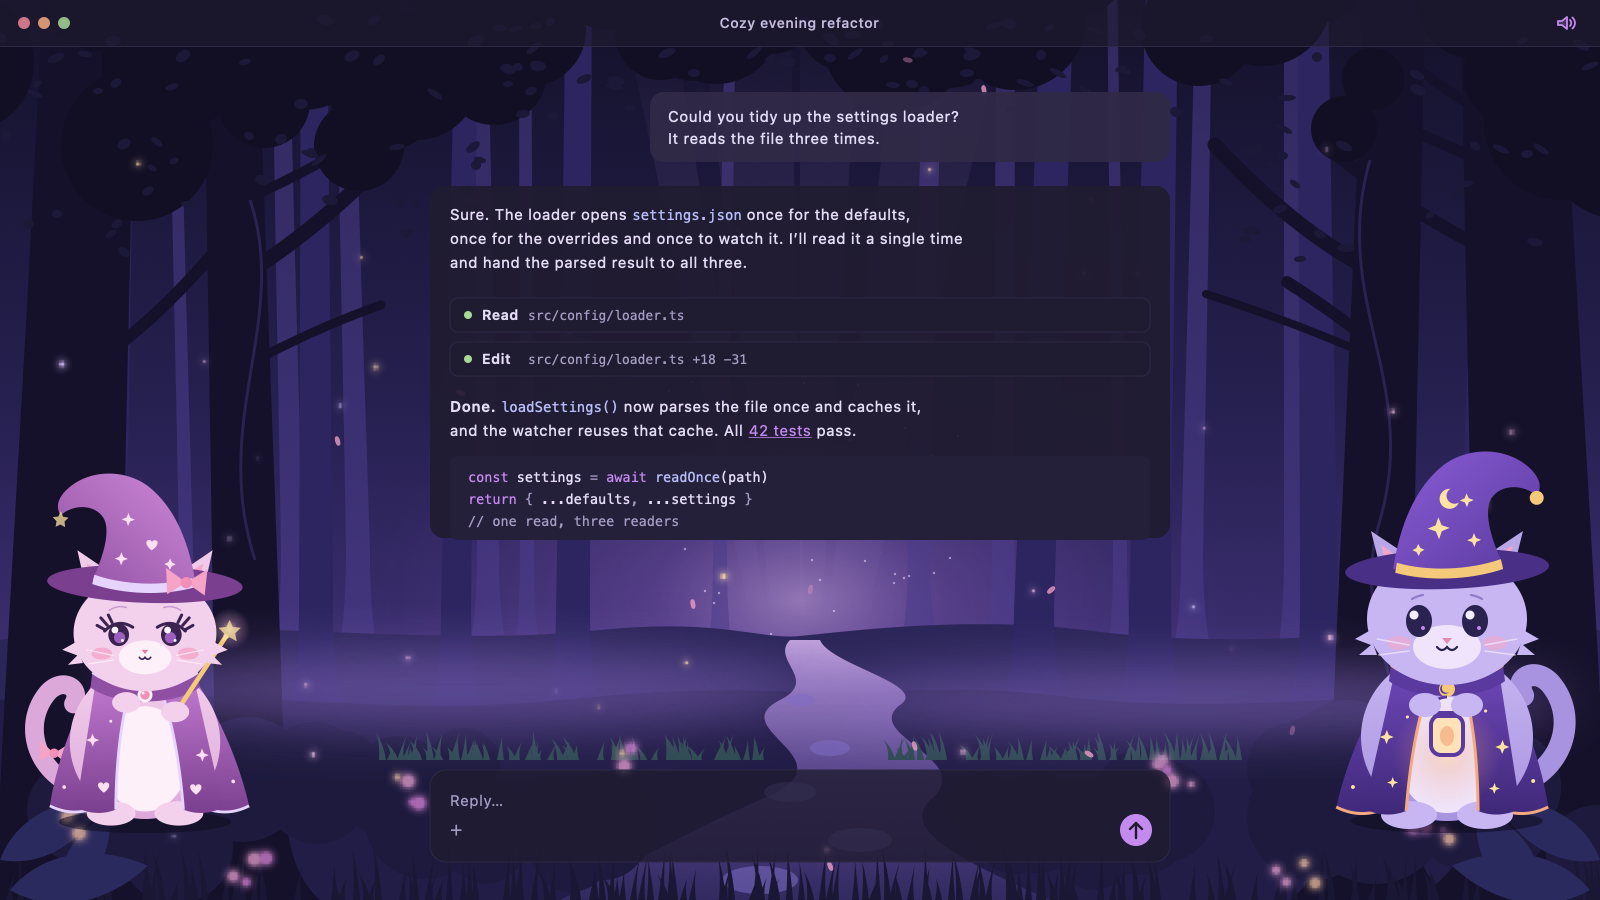
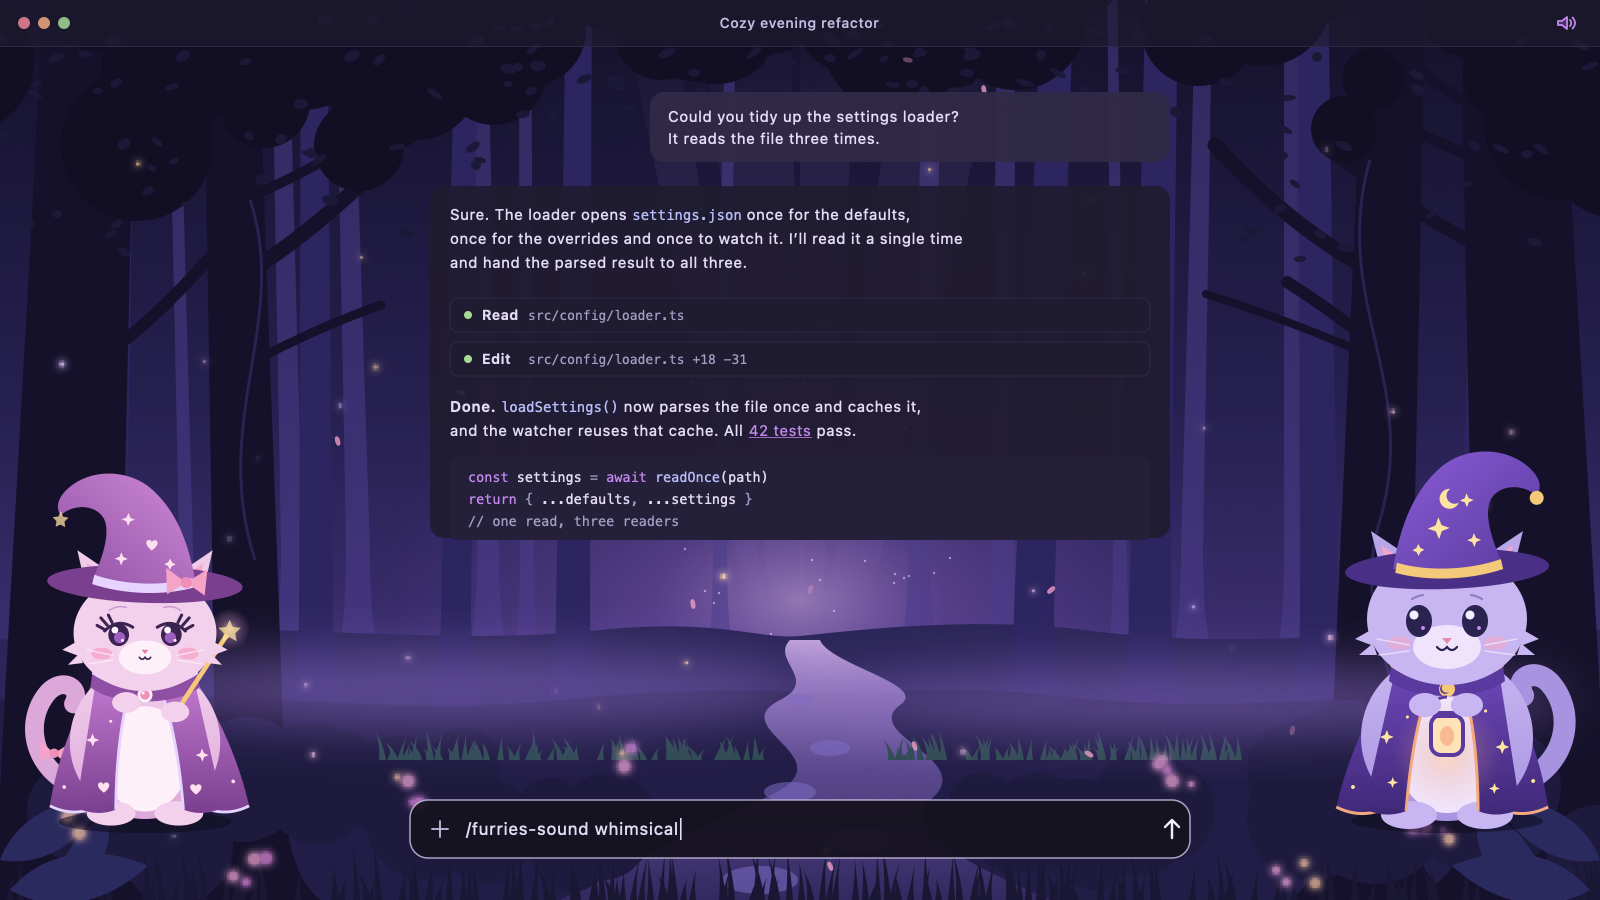
Draw the mock-up's prompt box as the app does, typing /furries-sound whimsical

Changed region(s): [[0.25, 0.84, 0.625, 0.9644], [0.6875, 0.8711, 0.75, 0.9644]]

diff --git a/art/mockup.py b/art/mockup.py
@@ -115,13 +115,17 @@ def window() -> str:
         spans = ''.join(f'<tspan fill="{c}">{escape(t)}</tspan>' for t, c in row)
         parts.append(f'<text x="{col_x + 38}" y="{cy + 26 + i * 22}" font-family="{MONO}" font-size="13.5" xml:space="preserve">{spans}</text>')
 
-    # Prompt box
-    py = 770
-    parts.append(f'<rect x="{col_x}" y="{py}" width="{col_w}" height="92" rx="16" fill="{SURFACE0}" fill-opacity="0.78" stroke="{SURFACE3}"/>')
-    parts.append(text(col_x + 20, py + 36, 'Reply…', 15, MUTED))
-    parts.append(f'<circle cx="{col_x + col_w - 34}" cy="{py + 60}" r="16" fill="{ORCHID}"/>')
-    parts.append(f'<path d="M{col_x + col_w - 34} {py + 68} v-15 m-6 6 l6 -6 l6 6" fill="none" stroke="{SURFACE0}" stroke-width="2.4" stroke-linecap="round" stroke-linejoin="round"/>')
-    parts.append(text(col_x + 20, py + 66, '+', 20, MUTED, 300))
+    # Prompt box, as the app draws it: one dark row with a light edge, a +
+    # on the left and a plain white send arrow on the right, holding the
+    # theme's own command to switch to the musical soundscape.
+    py, ph = 800, 58
+    mid = py + ph / 2
+    parts.append(f'<rect x="{col_x - 20}" y="{py}" width="{col_w + 40}" height="{ph}" rx="18" fill="#15121e" fill-opacity="0.94" stroke="{TEXT2}" stroke-opacity="0.85" stroke-width="1.5"/>')
+    parts.append(f'<path d="M{col_x + 2} {mid} h16 M{col_x + 10} {mid - 8} v16" stroke="{TEXT2}" stroke-width="1.8" stroke-linecap="round"/>')
+    parts.append(text(col_x + 36, mid + 6, '/furries-sound whimsical', 17, TEXT))
+    parts.append(f'<rect x="{col_x + 36 + 214}" y="{mid - 11}" width="1.6" height="22" fill="{TEXT}"/>')
+    ax = col_x + col_w + 2
+    parts.append(f'<path d="M{ax} {mid + 9} v-18 m-7 7 l7 -7 l7 7" fill="none" stroke="#f4f0fb" stroke-width="2.4" stroke-linecap="round" stroke-linejoin="round"/>')
 
     return '\n'.join(parts)
 
